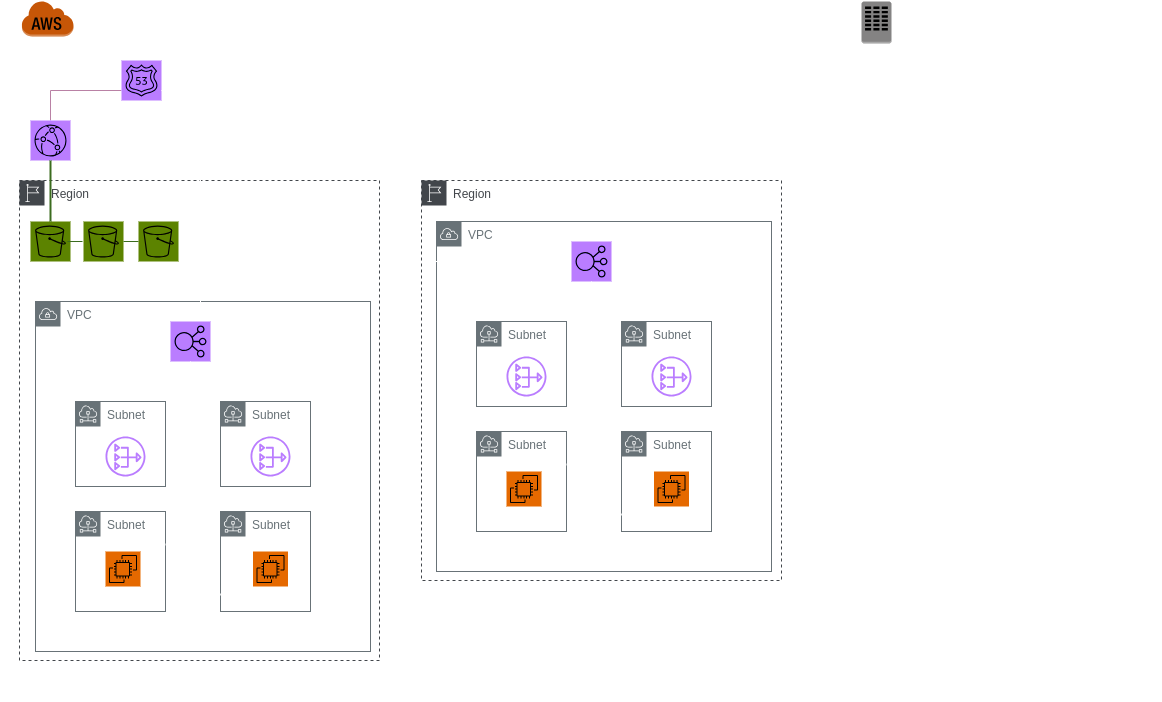
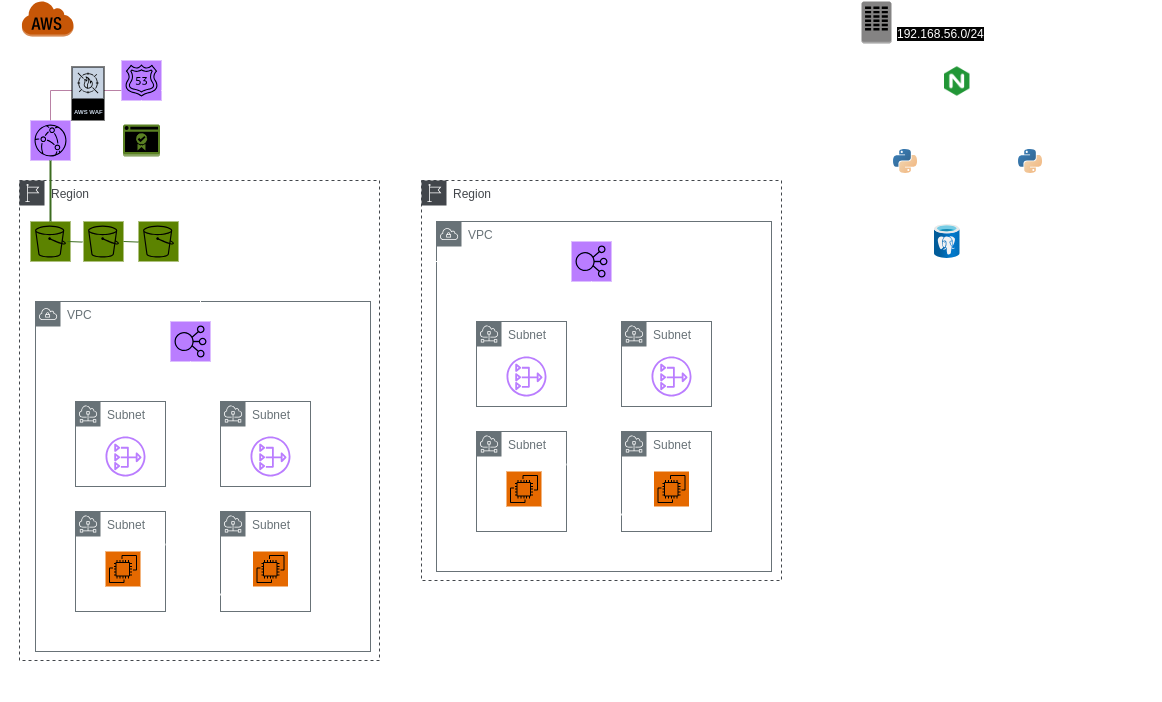
Update readme

diff --git a/README.md b/README.md
@@ -40,9 +40,12 @@ En secciones posteriores se incluye un mayor detalle de la utilización de `vagr
 Una vez ejecutado, obtenemos el despliegue de la siguiente arquitectura:
 
 <p align="center">
-  <img src="./docs/arqui.png" alt="Sublime's custom image"/>
+  <img src="./docs/arqui.png" alt="Diagrama de la arquitectura"/>
 </p>
 
+Como vemos en el diagrama, la arquitectura tiene una parte en la nube y la otra parte *on-premise*. De forma local, encontramos dos instancias de una API detrás de un *load-balancer*, que impactan los cambios en una base de datos *Postgres*.
+
+La infrstructura en la nube incluye un sitio web estático, y dos instancias de una API que está alojada en instancias EC2. Además, se provee una segunda región pasiva que actúa como failover en caso de fallas en la primera. Para mayor detalle de los módulos de AWS se puede consultar la siguiente sección.
 
 ## Terraform y AWS
 Para el desarrollo de infraestructura cloud en AWS, utilizamos la herramienta Terraform.
